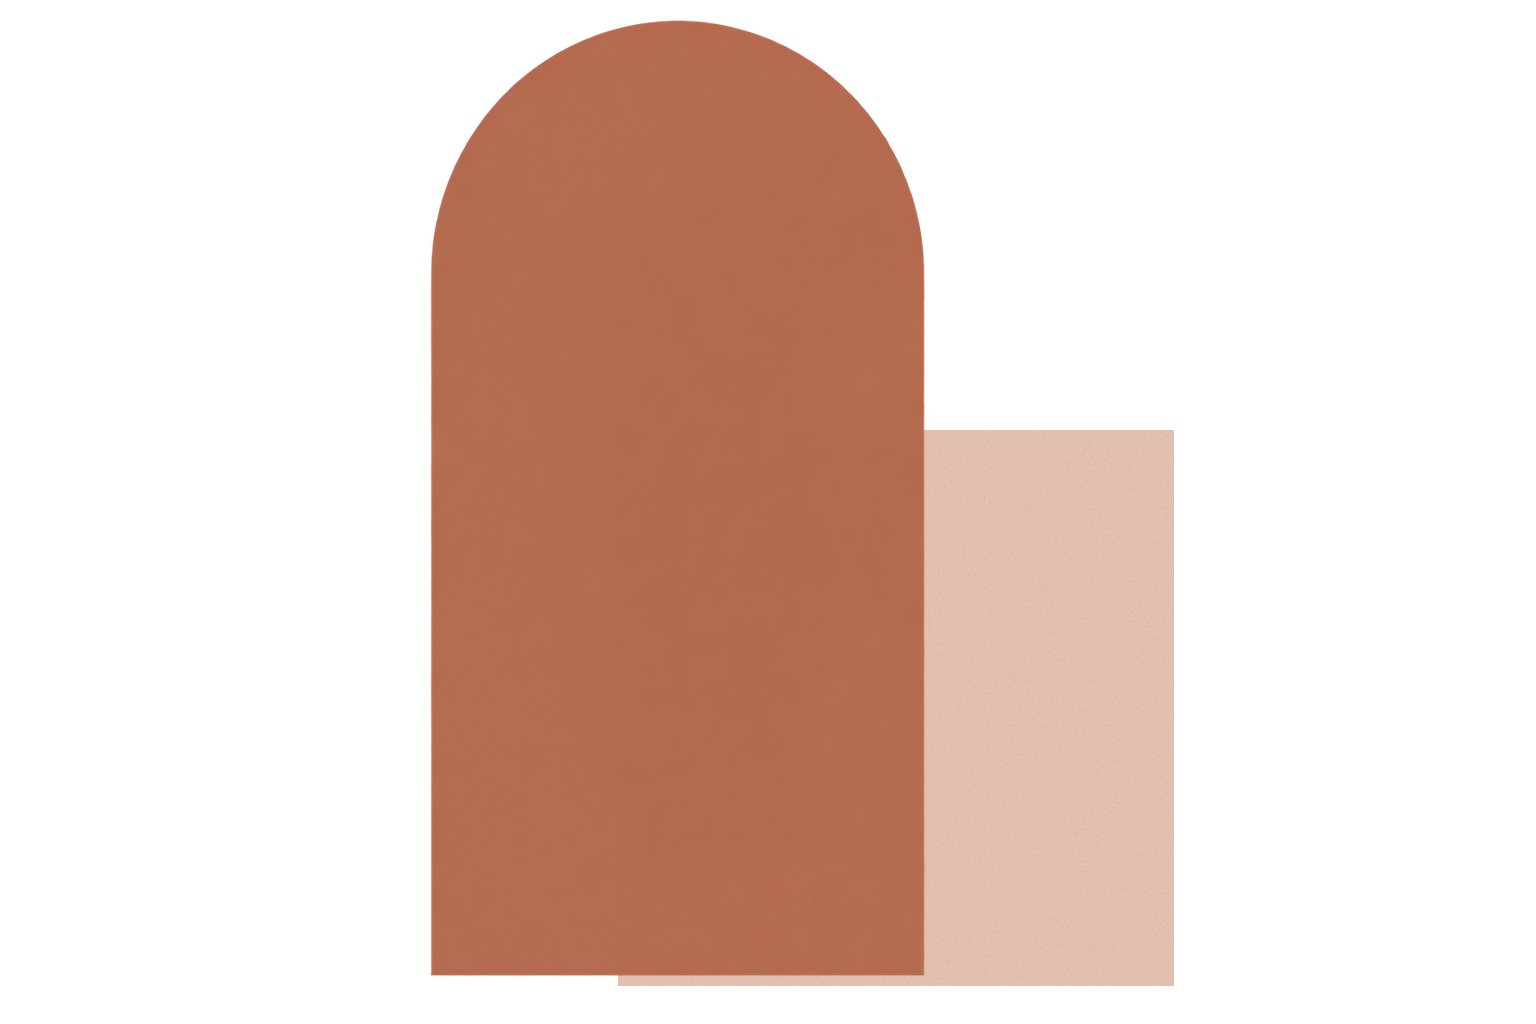
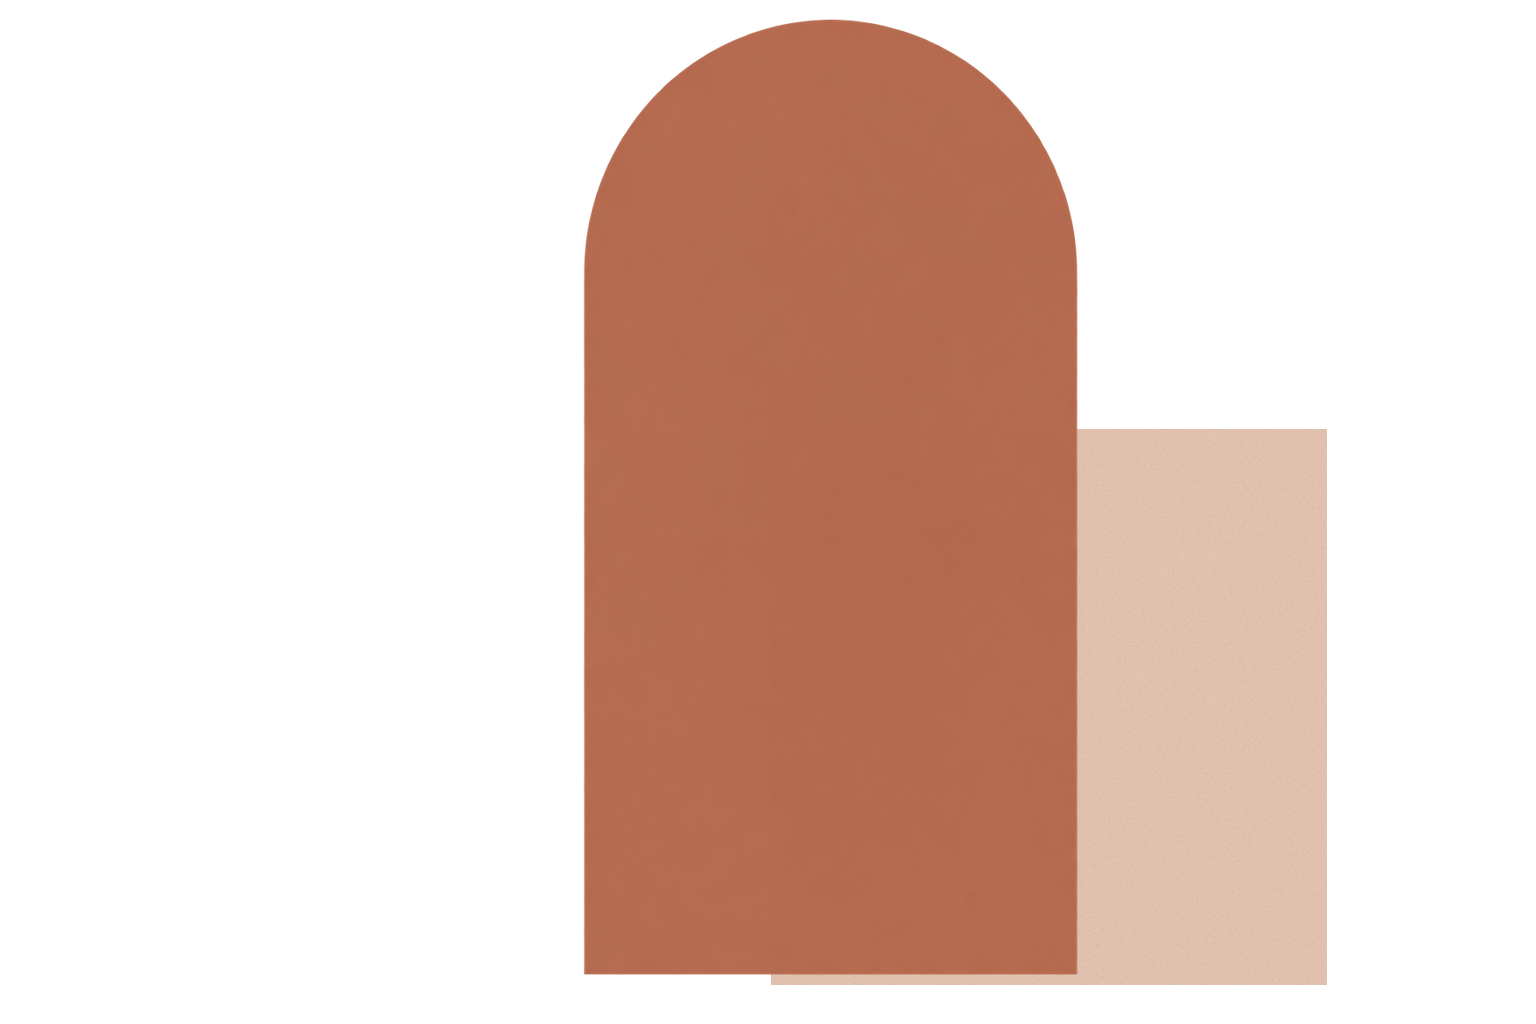
Ease the hero arch and square back toward the right.
Splits the difference after the last left shift went too far.

Changed region(s): [[0.2812, 0.0, 0.7188, 0.9688], [0.75, 0.4062, 0.875, 0.9688]]

diff --git a/src/styles/global.css b/src/styles/global.css
@@ -3266,7 +3266,7 @@ html.scroll-reveal-enabled .scroll-reveal--delay-2 {
 .home-landing__figure {
   position: absolute;
   top: 58%;
-  left: 14%;
+  left: 20%;
   right: auto;
   bottom: auto;
   z-index: 2;
